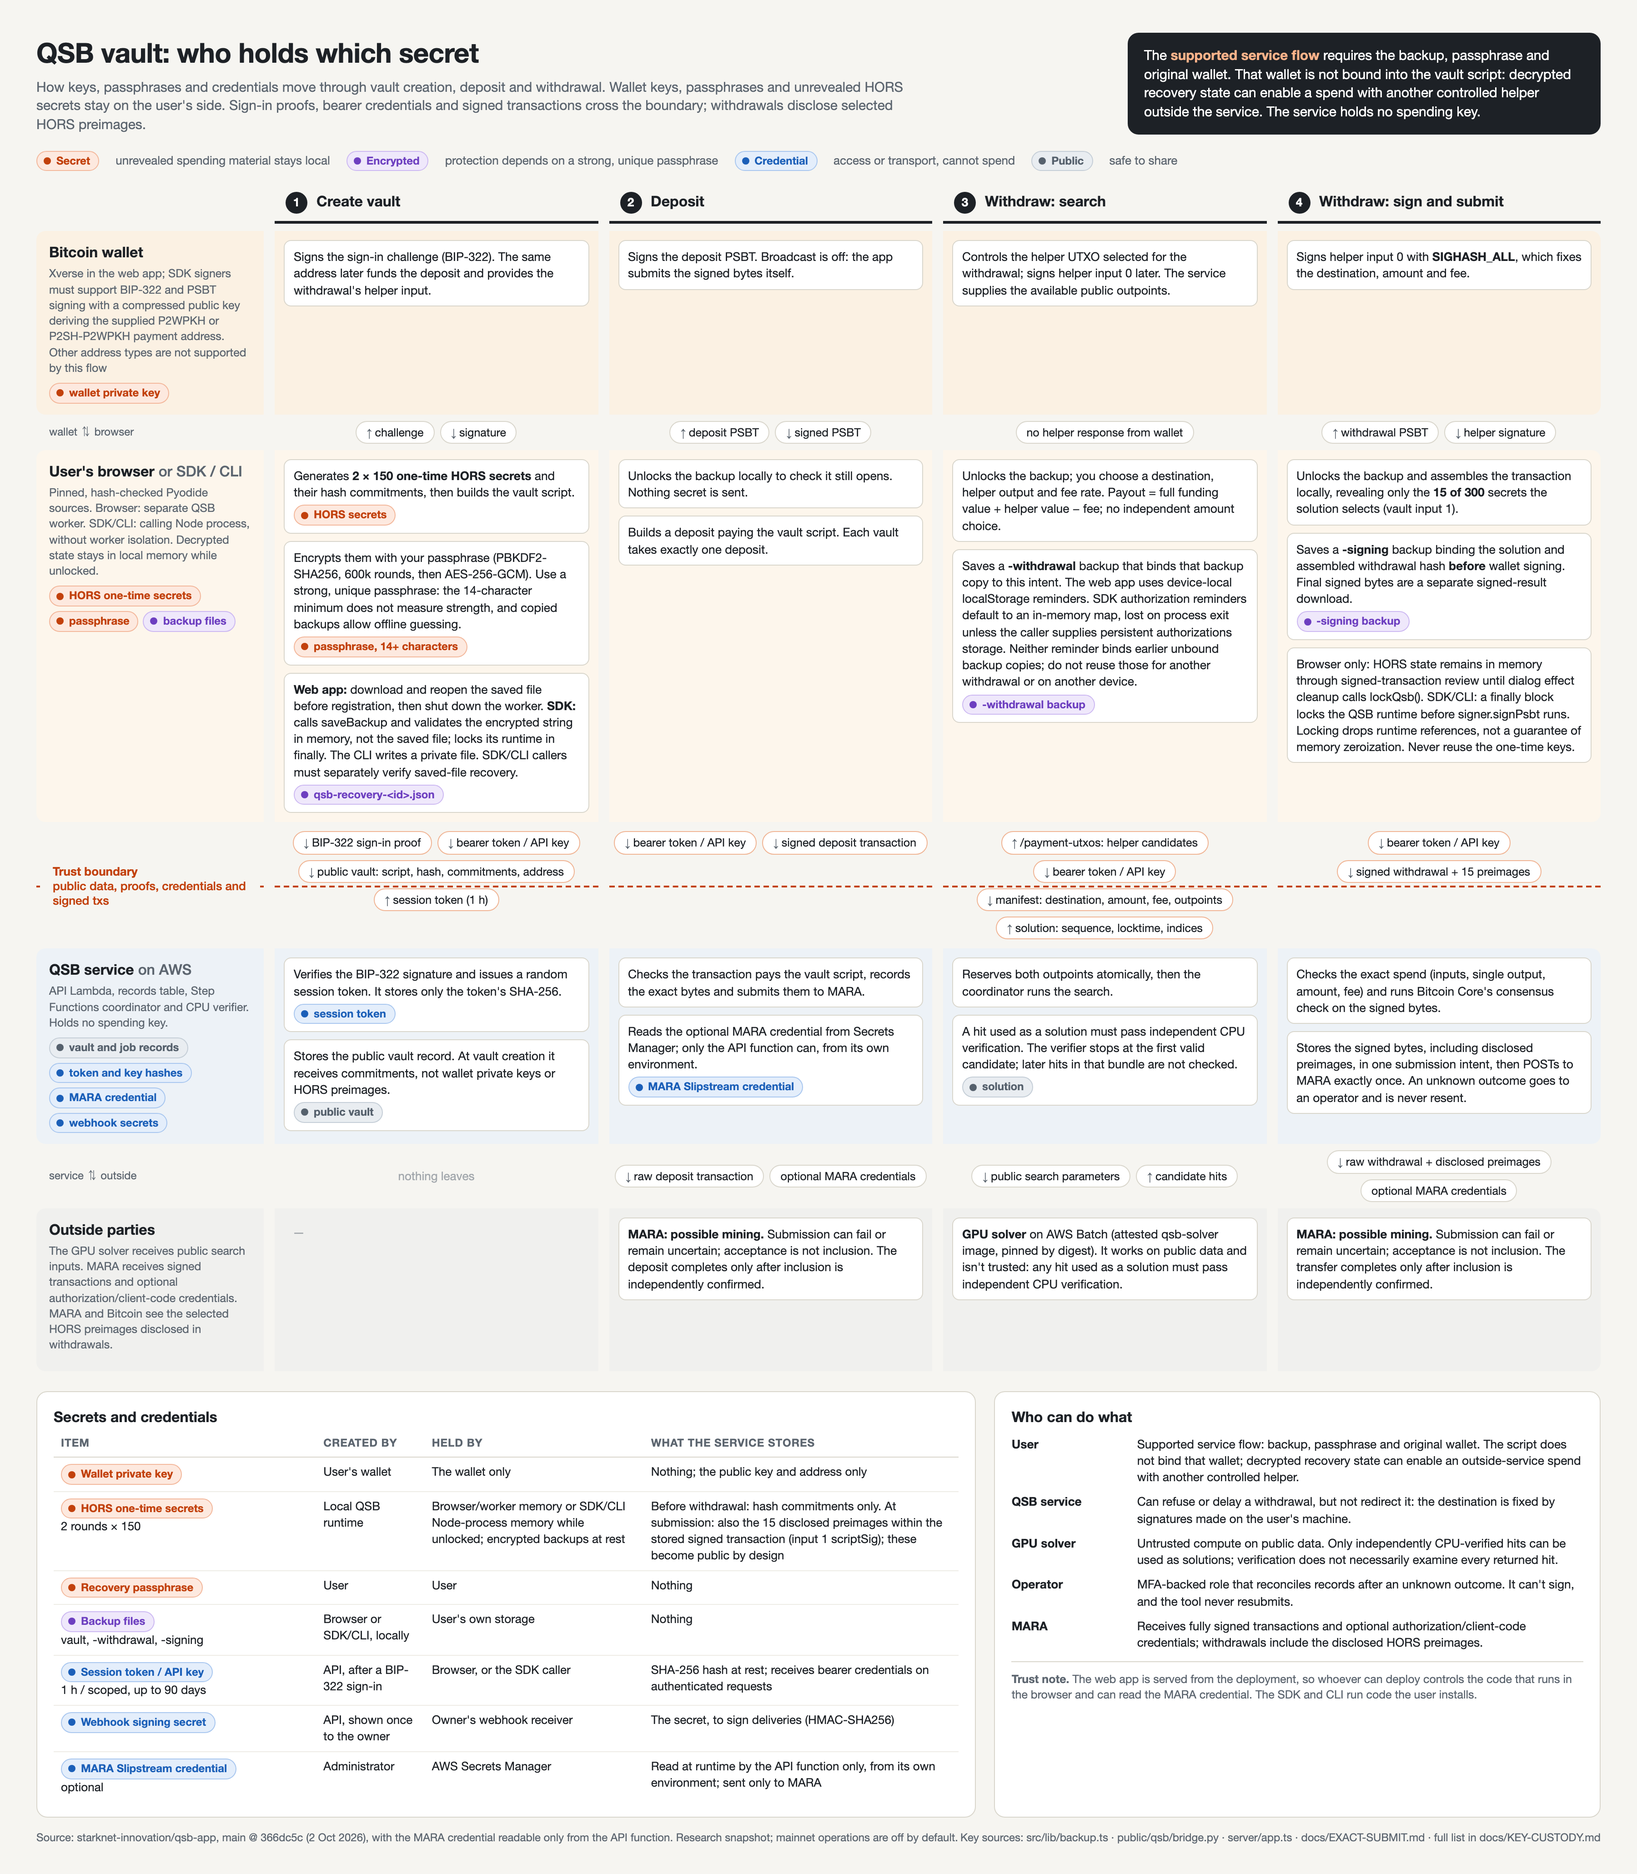
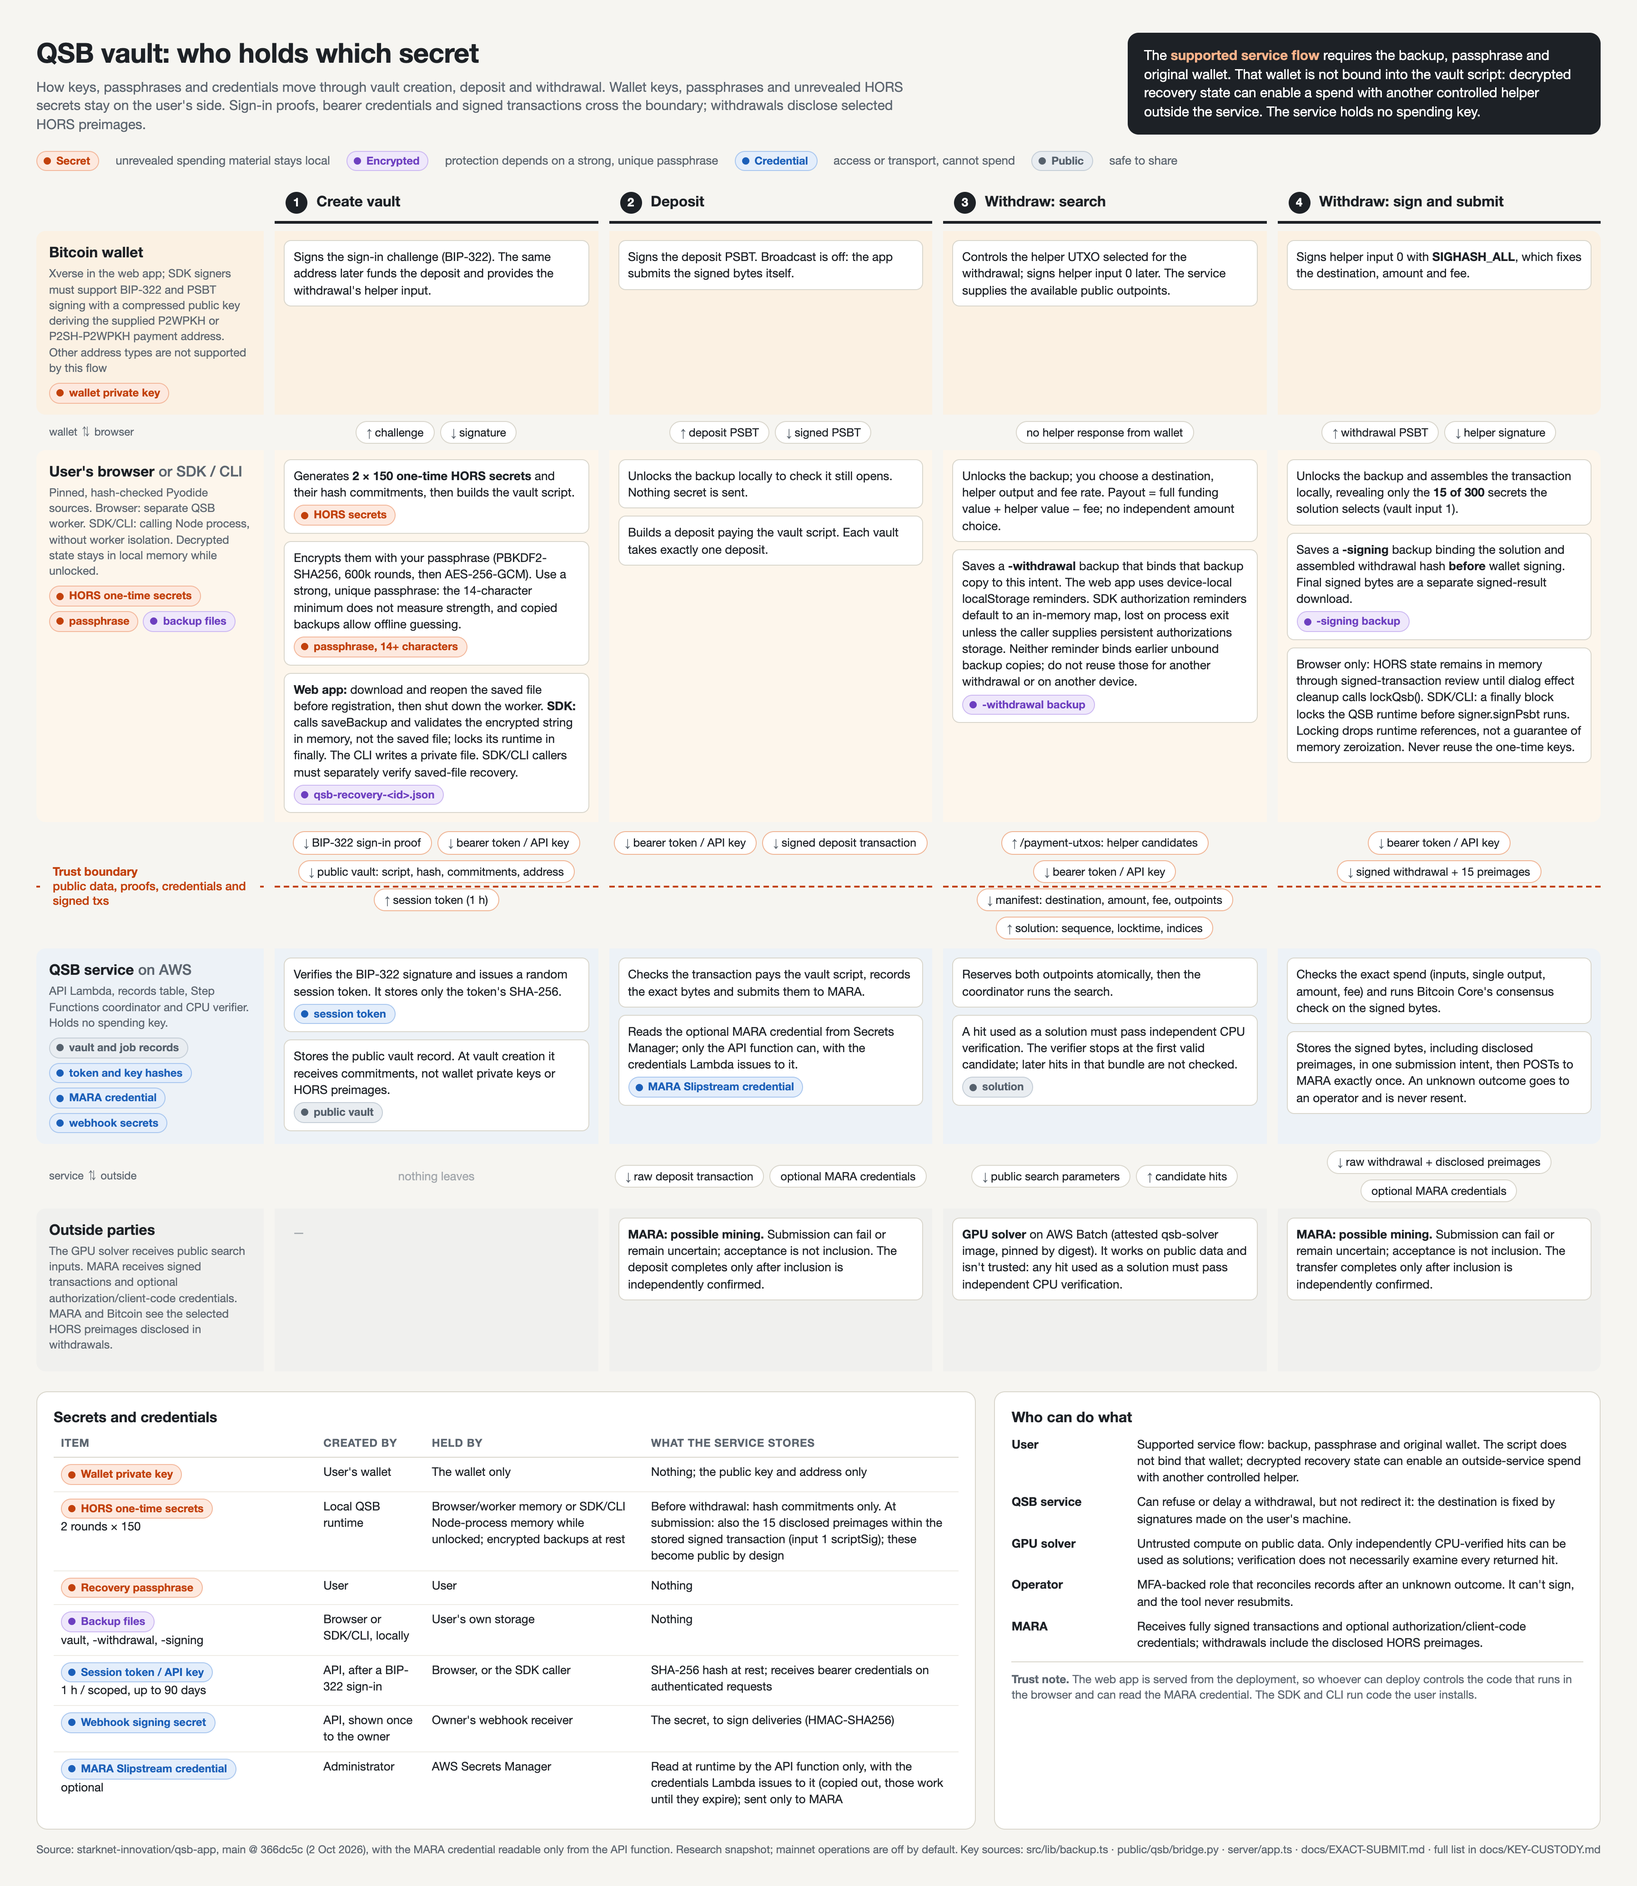
Say the read is bound to the API function's credentials, not its environment
From a fresh review of this change: Lambda puts lambda:SourceFunctionArn
into the context of the credentials it issues to the function, so the
key travels with those credentials. The docs, the diagram (re-rendered)
and the comments now say the secret can be read only with the
credentials Lambda issues to the API function, that a session of the
role assumed any other way can't, and that credentials copied out of
the function work until they expire.

diff --git a/docs/key-custody.html b/docs/key-custody.html
@@ -227,7 +227,7 @@
   </div>
   <div class="cell service">
     <div class="step">Checks the transaction pays the vault script, records the exact bytes and submits them to MARA.</div>
-    <div class="step">Reads the optional MARA credential from Secrets Manager; only the API function can, from its own environment.<br><span class="chip cred">MARA Slipstream credential</span></div>
+    <div class="step">Reads the optional MARA credential from Secrets Manager; only the API function can, with the credentials Lambda issues to it.<br><span class="chip cred">MARA Slipstream credential</span></div>
   </div>
   <div class="cell service">
     <div class="step">Reserves both outpoints atomically, then the coordinator runs the search.</div>
@@ -273,7 +273,7 @@
       <tr><td><span class="chip enc">Backup files</span><br>vault, -withdrawal, -signing</td><td>Browser or SDK/CLI, locally</td><td>User's own storage</td><td>Nothing</td></tr>
       <tr><td><span class="chip cred">Session token / API key</span><br>1 h / scoped, up to 90 days</td><td>API, after a BIP-322 sign-in</td><td>Browser, or the SDK caller</td><td>SHA-256 hash at rest; receives bearer credentials on authenticated requests</td></tr>
       <tr><td><span class="chip cred">Webhook signing secret</span></td><td>API, shown once to the owner</td><td>Owner's webhook receiver</td><td>The secret, to sign deliveries (HMAC-SHA256)</td></tr>
-      <tr><td><span class="chip cred">MARA Slipstream credential</span><br>optional</td><td>Administrator</td><td>AWS Secrets Manager</td><td>Read at runtime by the API function only, from its own environment; sent only to MARA</td></tr>
+      <tr><td><span class="chip cred">MARA Slipstream credential</span><br>optional</td><td>Administrator</td><td>AWS Secrets Manager</td><td>Read at runtime by the API function only, with the credentials Lambda issues to it (copied out, those work until they expire); sent only to MARA</td></tr>
     </table>
   </div>
   <div class="panel">

diff --git a/ops/github-aws/render.py b/ops/github-aws/render.py
@@ -101,8 +101,9 @@ def render(c):
     allow('GpuInputs',['s3:PutObject'],[f'arn:aws:s3:::qsb-gpu-{account}-{region}-jobs/inputs/*'],target=runtime)
     allow('GpuOutputs',['s3:GetObject'],[f'arn:aws:s3:::qsb-gpu-{account}-{region}-jobs/outputs/*'],target=runtime)
     # The API's MARA Slipstream credential: read-only, one administrator-created secret, and only for the
-    # registered API roles, from their own function's execution environment. Lambda sets lambda:SourceFunctionArn
-    # on those calls (and a few it makes for the function, such as its logs), never on a session taken elsewhere.
+    # registered API roles, with the credentials Lambda issues to their own function. Those carry
+    # lambda:SourceFunctionArn (as do a few calls Lambda makes for the function, such as its logs); a session of the
+    # role assumed any other way doesn't. Credentials copied out of the function keep working until they expire.
     # Naming the functions, not qsb-*-api, means a deploy can't add a role and function of its own that read it
     # for another account. A role still needs its own grant, which Terraform gives only to the API. This limits
     # runtime roles, not deployers: whoever can deploy the API's code can read it.

diff --git a/terraform/README.md b/terraform/README.md
@@ -189,18 +189,18 @@ Its inline policy is narrower than `qsb-operator`'s: GetItem/PutItem on present 
 
 By default the API calls MARA Slipstream without credentials. To use MARA's privileged submission (a client code) or an API key, in this order:
 
-1. **Boundary.** The installed `qsb-runtime-boundary` must match `main`: check with `ops/github-aws/update_installed.py` in plan mode, and an administrator applies any difference. Its `MinerCredential` statement allows `secretsmanager:GetSecretValue` on `qsb/slipstream` only, only to the API roles registered as `api_functions` in the ops inventory, and only from that function's own execution environment (`lambda:SourceFunctionArn`). The API's own grant (`aws_iam_role_policy.miner_credential`) carries the same condition for its function. While the installed boundary has no `MinerCredential` statement, the API can't read the secret, whatever its own grant says; an older one without the condition still lets it. `GET /v1/rates` reads it on every call, so a 200 there shows the API can; if it can't, that route answers 503 `miner_rate_unavailable`.
+1. **Boundary.** The installed `qsb-runtime-boundary` must match `main`: check with `ops/github-aws/update_installed.py` in plan mode, and an administrator applies any difference. Its `MinerCredential` statement allows `secretsmanager:GetSecretValue` on `qsb/slipstream` only, only to the API roles registered as `api_functions` in the ops inventory, and only with the credentials Lambda issues to that function (`lambda:SourceFunctionArn`). The API's own grant (`aws_iam_role_policy.miner_credential`) carries the same condition for its function. While the installed boundary has no `MinerCredential` statement, the API can't read the secret, whatever its own grant says; an older one without the condition still lets it. `GET /v1/rates` reads it on every call, so a 200 there shows the API can; if it can't, that route answers 503 `miner_rate_unavailable`.
 2. **Secret.** Neither scoped role can call Secrets Manager, so the key holder creates the secret as the administrator. Create `qsb/slipstream` in this stack's account and region, encrypted with the default `aws/secretsmanager` key (runtime roles have no KMS grants). Its value is a JSON object with one or both of these fields, and no others:
    - `client_code`: the client code MARA issued for privileged submission (1–256 visible ASCII characters). The API adds it to the body of transaction submissions only, as MARA specifies: `{"client_code": "…", "tx_hex": "…"}`.
    - `authorization`: an `Authorization` header value, if MARA issues one (printable ASCII). The API sends it on every Slipstream request.
 
    Treat both as credentials. Enter them only in the AWS console or your own terminal: never in an issue, PR, chat, tfvars file or AI tool.
-3. **Wire it.** Set `slipstream_secret_arn` to the secret's full ARN in the private tfvars, then plan and apply as `qsb-operator` while no deposit or withdrawal is in flight. The plan adds `aws_iam_role_policy.miner_credential` and the API's `SLIPSTREAM_SECRET_ARN`, and nothing else. The variable refuses any other secret, account or region. `check-single-pipeline.py` refuses any other Secrets Manager grant, `NotAction`, wildcard action, module, JSON Terraform file, unreviewed data source or file input in the source, and checks the planned grant against the API's reference. It's a review aid against ordinary mistakes, not a sandbox: the boundary is what limits the secret to the registered API function, from its own environment.
+3. **Wire it.** Set `slipstream_secret_arn` to the secret's full ARN in the private tfvars, then plan and apply as `qsb-operator` while no deposit or withdrawal is in flight. The plan adds `aws_iam_role_policy.miner_credential` and the API's `SLIPSTREAM_SECRET_ARN`, and nothing else. The variable refuses any other secret, account or region. `check-single-pipeline.py` refuses any other Secrets Manager grant, `NotAction`, wildcard action, module, JSON Terraform file, unreviewed data source or file input in the source, and checks the planned grant against the API's reference. It's a review aid against ordinary mistakes, not a sandbox: the boundary is what limits the secret to the registered API function's credentials.
 4. **Check.** Straight after the apply, `GET /api/rates` through the app should still return MARA's rates. If it doesn't, back out (below). This shows the API can read and parse the secret. It can't show that MARA accepts the credential: rates is a public read, and the client code is only sent with a submission. The first deposit or withdrawal is the first live test.
 
 **Rolling back.** API code before `d0a1732` (#78) accepts only `authorization` and refuses a secret with any other field, which stops every MARA call. Never roll the API back past that commit while the secret holds `client_code`: first change the secret back to `{"authorization": …}`, or clear `slipstream_secret_arn`.
 
-**Who can read the key.** At runtime, only the API function can read it, from its own execution environment. But anyone who can deploy runtime code can read it through that function: `qsb-operator`, a workflow trusted by `qsb-github-deploy`, and the administrator. Share the key on that basis.
+**Who can read the key.** At runtime, only the API function can read it, with the credentials Lambda issues to it. Credentials copied out of the function would keep working until they expire. But anyone who can deploy runtime code can read it through that function: `qsb-operator`, a workflow trusted by `qsb-github-deploy`, and the administrator. Share the key on that basis.
 
 **Behaviour once configured.** Only requests to `https://slipstream.mara.com` use the credential. The client code goes only in the body of deposit and withdrawal submissions (`POST /api/transactions`), never in reads or headers. An `authorization` value, if set, goes as a header on every request (rates, status, submissions). The app's manual-submission link stays the plain Slipstream page, since a client code in the page would reach every visitor; an operator can use MARA's own client URL by hand. The API reads the secret on each request, so rotating a value the deployed code already supports needs no deploy.
 - If the secret can't be read or is malformed, requests stop with "Miner API credential is unavailable" before anything is sent. Deposits and withdrawals read it before recording their intent and reuse that value for the POST, so such a failure leaves nothing recorded and the user can simply retry.

diff --git a/docs/KEY-CUSTODY.md b/docs/KEY-CUSTODY.md
@@ -32,7 +32,7 @@ Who holds each key, passphrase and credential through vault creation, deposit an
 | Wallet ↔ browser | The deposit PSBT goes to the wallet; the signed PSBT comes back. |
 | Browser | Unlocks the backup locally to check it still opens; nothing secret is sent. Builds a deposit paying the vault script. Each vault takes exactly one deposit. |
 | Crosses to the service | The signed deposit transaction plus a bearer session token or API key. |
-| Service | Checks the transaction pays the vault script, records the exact bytes and submits them to MARA. Reads the optional MARA credential from Secrets Manager; only the API function can, from its own environment. |
+| Service | Checks the transaction pays the vault script, records the exact bytes and submits them to MARA. Reads the optional MARA credential from Secrets Manager; only the API function can, with the credentials Lambda issues to it. |
 | Outside parties | MARA receives the signed transaction and optional authorization/client-code credentials for possible mining. Submission may fail or remain uncertain; acceptance is not block inclusion. The deposit completes only after inclusion is independently confirmed. |
 
 ## 3. Withdraw: search
@@ -67,7 +67,7 @@ Who holds each key, passphrase and credential through vault creation, deposit an
 | Backup files: vault, `-withdrawal`, `-signing` | Browser or SDK/CLI, locally | User's own storage | Nothing |
 | Session token (1 hour) / API key (scoped, up to 90 days) | API, after a BIP-322 sign-in | Browser, or the SDK caller | SHA-256 hash at rest; receives the bearer credential on authenticated requests |
 | Webhook signing secret | API, shown once to the owner | Owner's webhook receiver | The secret, to sign deliveries (HMAC-SHA256) |
-| MARA Slipstream credential (optional) | Administrator | AWS Secrets Manager | Read at runtime by the API function only, from its own execution environment; sent only to MARA |
+| MARA Slipstream credential (optional) | Administrator | AWS Secrets Manager | Read at runtime by the API function only, with the credentials Lambda issues to it (copied out, those work until they expire); sent only to MARA |
 
 ## Who can do what
 

diff --git a/ops/github-aws/README.md b/ops/github-aws/README.md
@@ -30,11 +30,11 @@ infrastructure. Roles can be passed only to Lambda, Step Functions and EventBrid
 dispatcher's schedule; the role can manage only `qsb-*` schedules in the default group.
 
 The runtime boundary allows QSB data access and, for the API roles in `api_functions` only, read-only access to one
-secret, `qsb/slipstream`: the optional MARA Slipstream credential (see `terraform/README.md`). Only calls from that
-same function's execution environment get it (`lambda:SourceFunctionArn`, which Lambda sets on those calls and a few
-it makes for the function, such as its logs, never on a session taken elsewhere). So neither a session of an API
-role taken anywhere else, such as by another account a changed trust names, nor a role and function a deploy adds
-can read it. It allows no other secret and no KMS decrypt. Deploying code confers that code's runtime access, so `qsb-operator` and `qsb-github-deploy` can
+secret, `qsb/slipstream`: the optional MARA Slipstream credential (see `terraform/README.md`). Only the credentials
+Lambda issues to that same function get it: they carry `lambda:SourceFunctionArn`, as do a few calls Lambda makes for
+the function, such as its logs. So neither a session of an API role assumed any other way, such as by another account
+a changed trust names, nor a role and function a deploy adds can read it. Credentials copied out of the function, by a
+bug that leaks its environment, would keep working until they expire. It allows no other secret and no KMS decrypt. Deploying code confers that code's runtime access, so `qsb-operator` and `qsb-github-deploy` can
 reach this secret through an API role. Workflow log-delivery control APIs and regional metadata discovery require
 regional wildcard resources; these are the runtime control-plane exceptions. In S3, the boundary allows only the GPU
 job bucket's prefixes (`s3:PutObject` on `inputs/*`, `s3:GetObject` on `outputs/*`), which Terraform grants to the

diff --git a/docs/EXACT-SUBMIT.md b/docs/EXACT-SUBMIT.md
@@ -28,4 +28,4 @@ An Esplora response is chain-provider evidence, not an independently operated fu
 
 ## Miner transport
 
-The transport follows [MARA's OpenAPI](https://slipstream.mara.com/docs/openapi.json). Runtime authorization, if configured, stays confined to the exact MARA origin. The optional credential is the administrator-created `qsb/slipstream` secret: at runtime only the API function can read it, from its own execution environment, but anyone who can deploy runtime code can too. See "MARA Slipstream credential" in [`terraform/README.md`](../terraform/README.md#mara-slipstream-credential).
+The transport follows [MARA's OpenAPI](https://slipstream.mara.com/docs/openapi.json). Runtime authorization, if configured, stays confined to the exact MARA origin. The optional credential is the administrator-created `qsb/slipstream` secret: at runtime only the API function can read it, with the credentials Lambda issues to it, but anyone who can deploy runtime code can too. See "MARA Slipstream credential" in [`terraform/README.md`](../terraform/README.md#mara-slipstream-credential).
